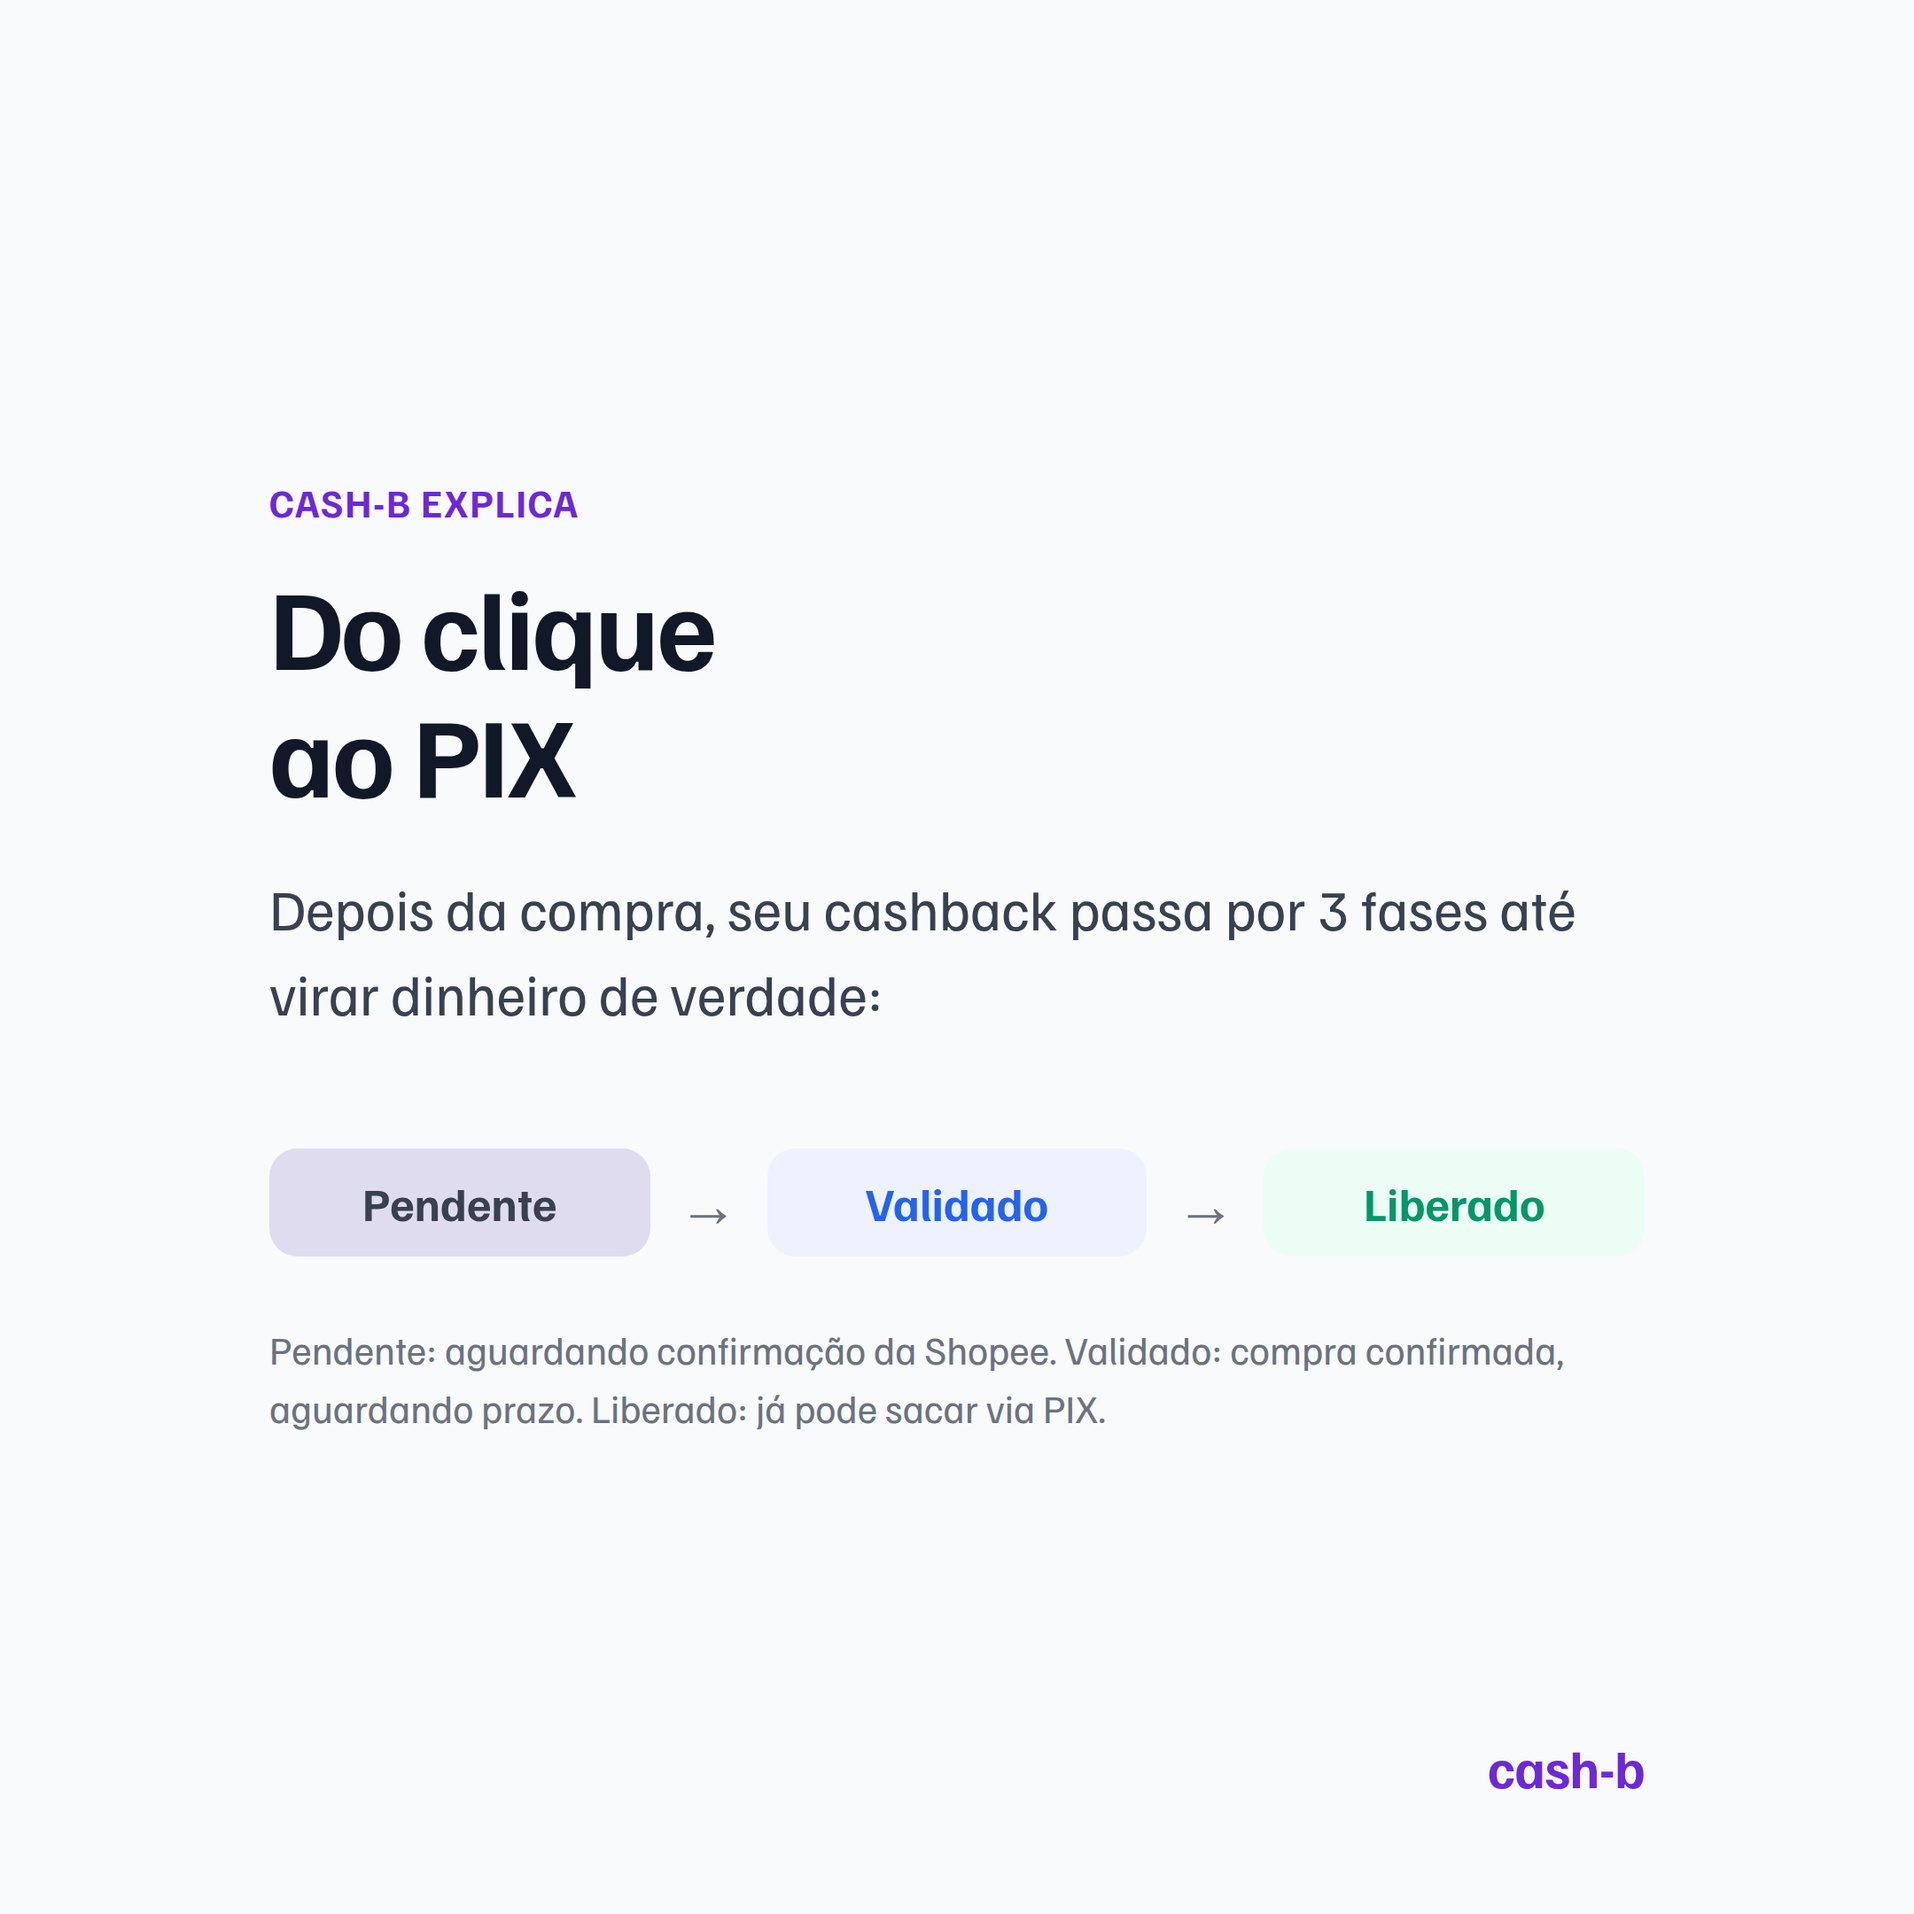
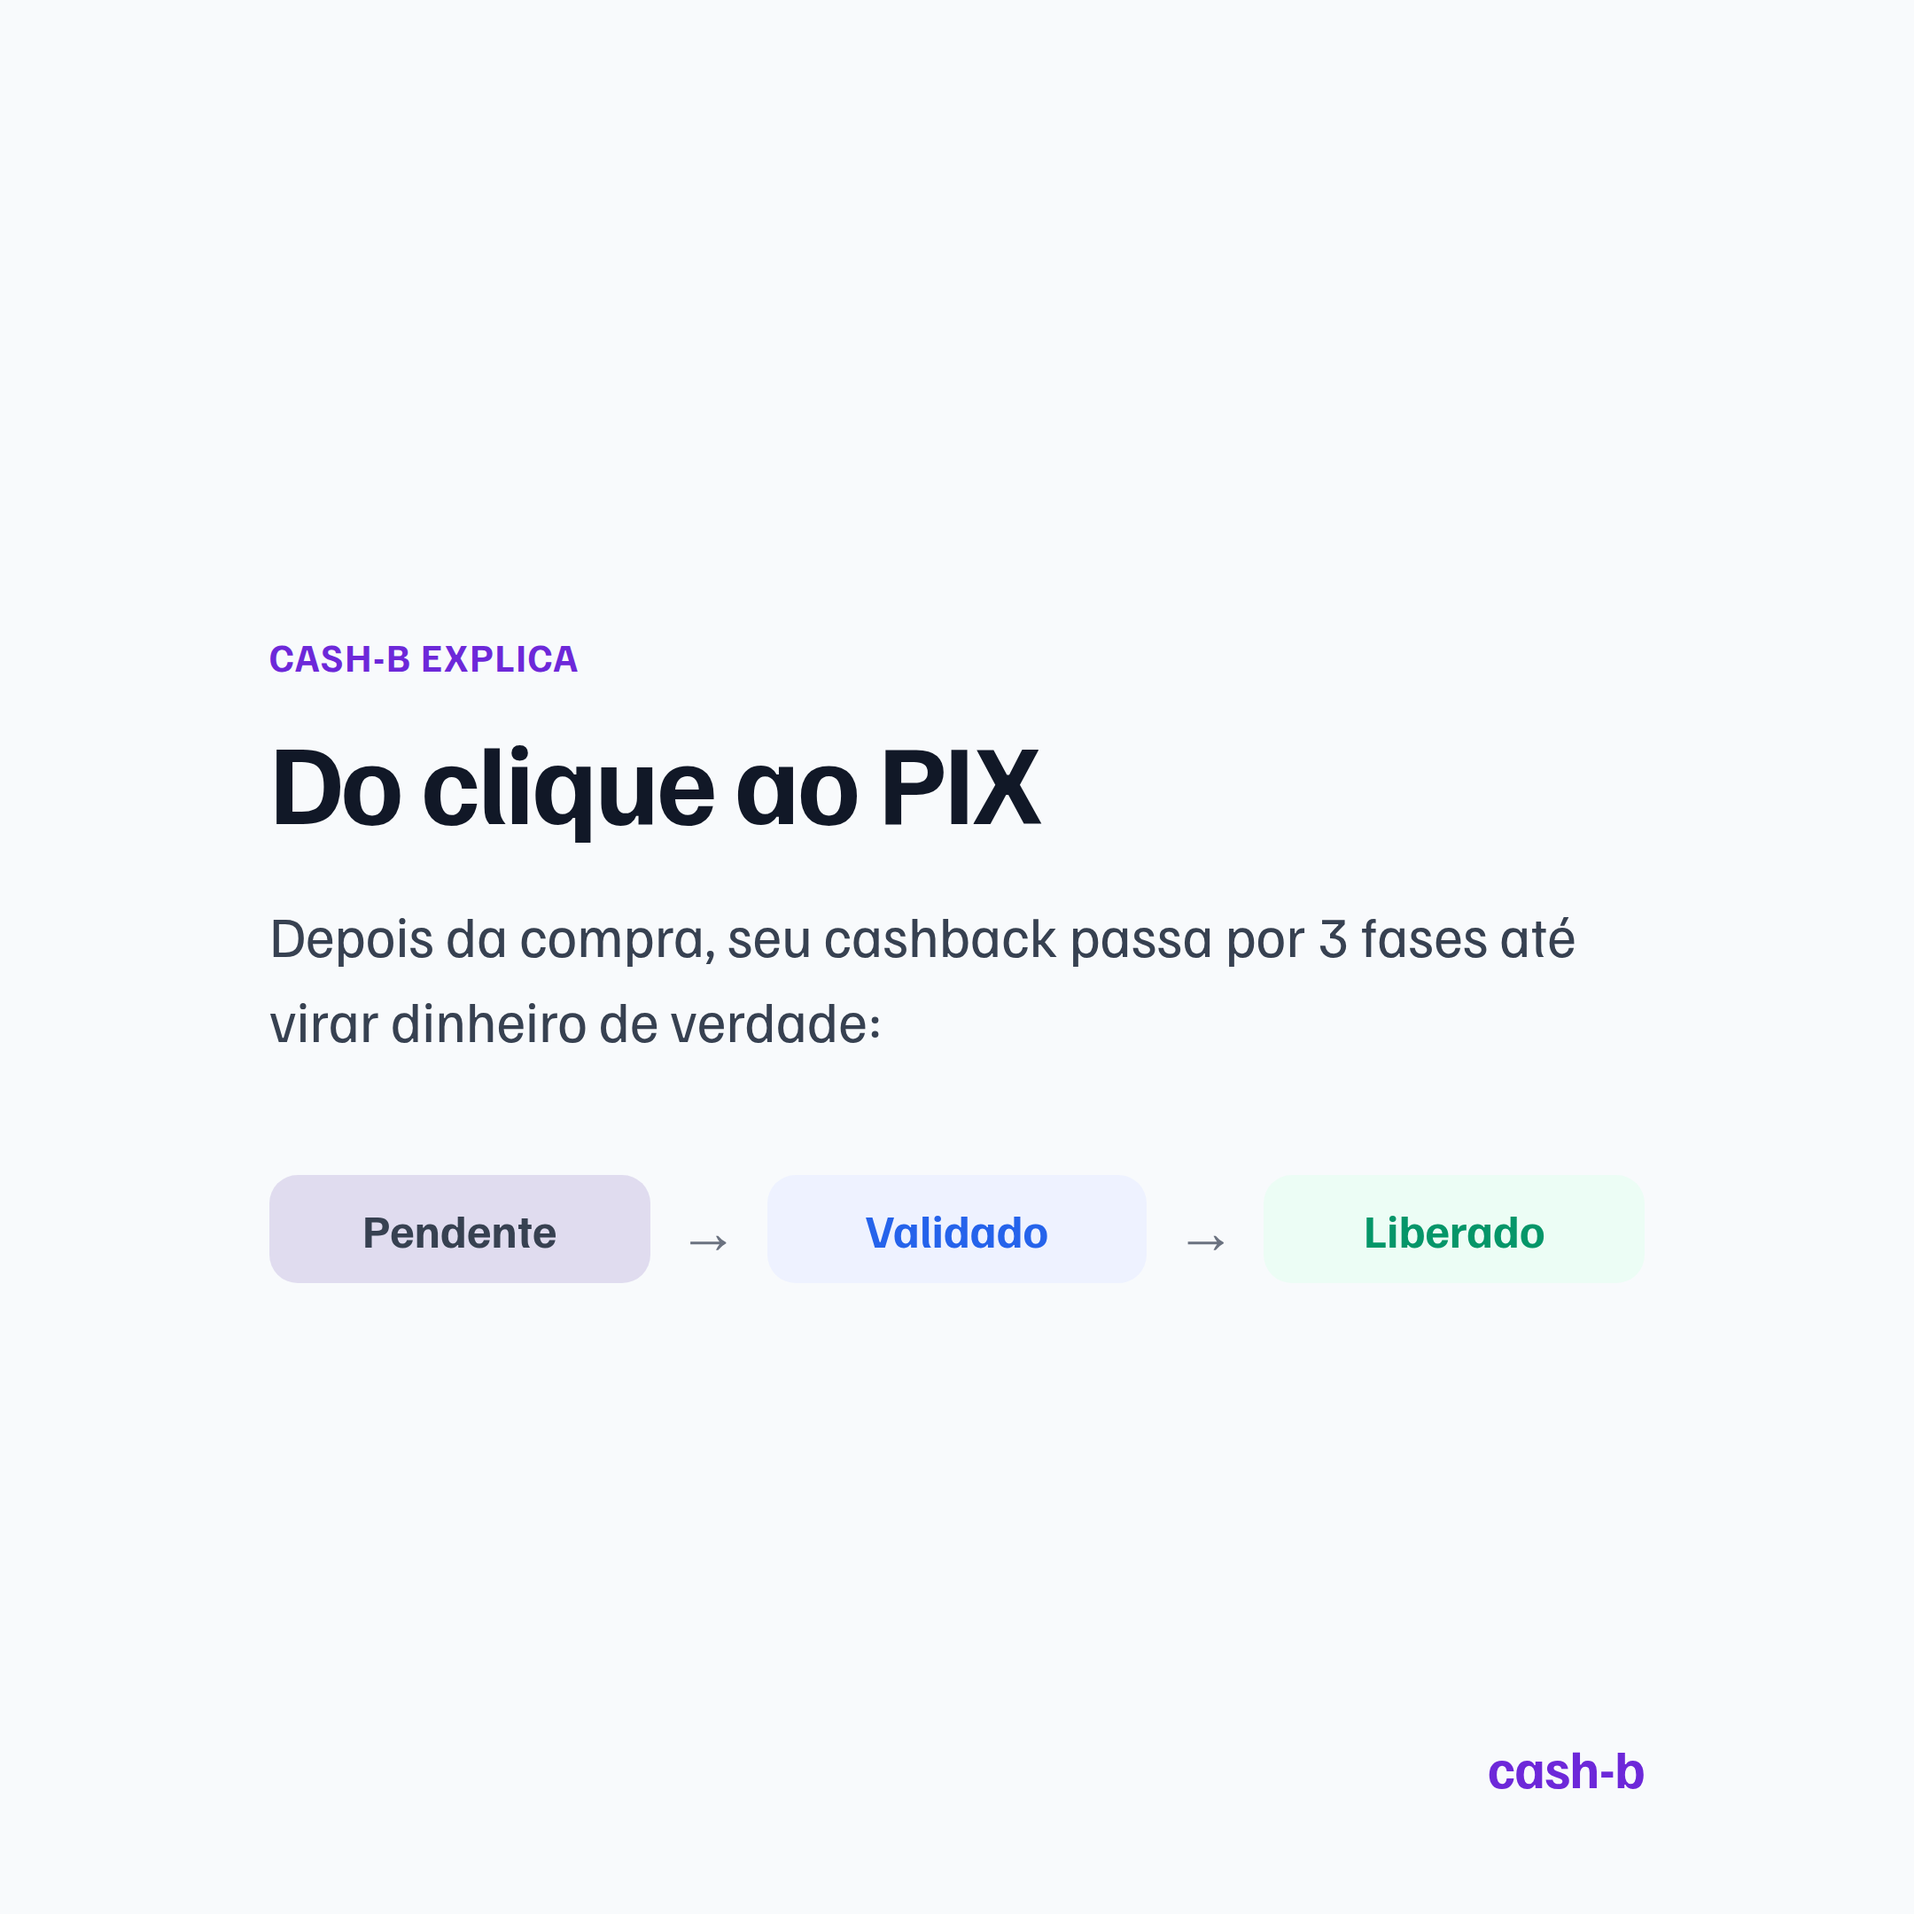
Simplifica o post 4 de semeadura (Do clique ao PIX)
Título em uma linha só e remove o parágrafo que repetia o significado de cada
status embaixo da linha do tempo - os três nomes já dizem o suficiente no
formato de post, e o detalhe completo vive em /regras-do-cashback/.

Claude-Session: https://claude.ai/code/session_017WZWLEiMQvHUst5KUYseHY

diff --git a/marketing/instagram/gerar_posts_semeadura.py b/marketing/instagram/gerar_posts_semeadura.py
@@ -148,7 +148,7 @@ def status_pill(nome, cor_fundo, cor_texto):
 render("timeline", f"""
 <div class="canvas" style="background:{COLORS['paper']}; color:{COLORS['ink']}; justify-content:center;">
     <div class="eyebrow" style="color:{COLORS['brand']};">cash-b explica</div>
-    <div class="headline">Do clique<br>ao PIX</div>
+    <div class="headline">Do clique ao PIX</div>
     <div class="body" style="color:{COLORS['ink-soft']};">Depois da compra, seu cashback passa por 3 fases até virar dinheiro de verdade:</div>
     <div style="display:flex; align-items:center; gap:16px; margin-top:64px;">
         {status_pill("Pendente", COLORS['line'], COLORS['ink-soft'])}
@@ -156,9 +156,6 @@ render("timeline", f"""
         {status_pill("Validado", "#eef2ff", "#2563eb")}
         <div style="font-size:34px; color:{COLORS['muted']};">&rarr;</div>
         {status_pill("Liberado", "#ecfdf5", "#059669")}
-    </div>
-    <div style="margin-top:36px; font-size:22px; color:{COLORS['muted']}; line-height:1.5;">
-        Pendente: aguardando confirmação da Shopee. Validado: compra confirmada, aguardando prazo. Liberado: já pode sacar via PIX.
     </div>
     <div class="badge" style="color:{COLORS['brand']};">cash-b</div>
 </div>
